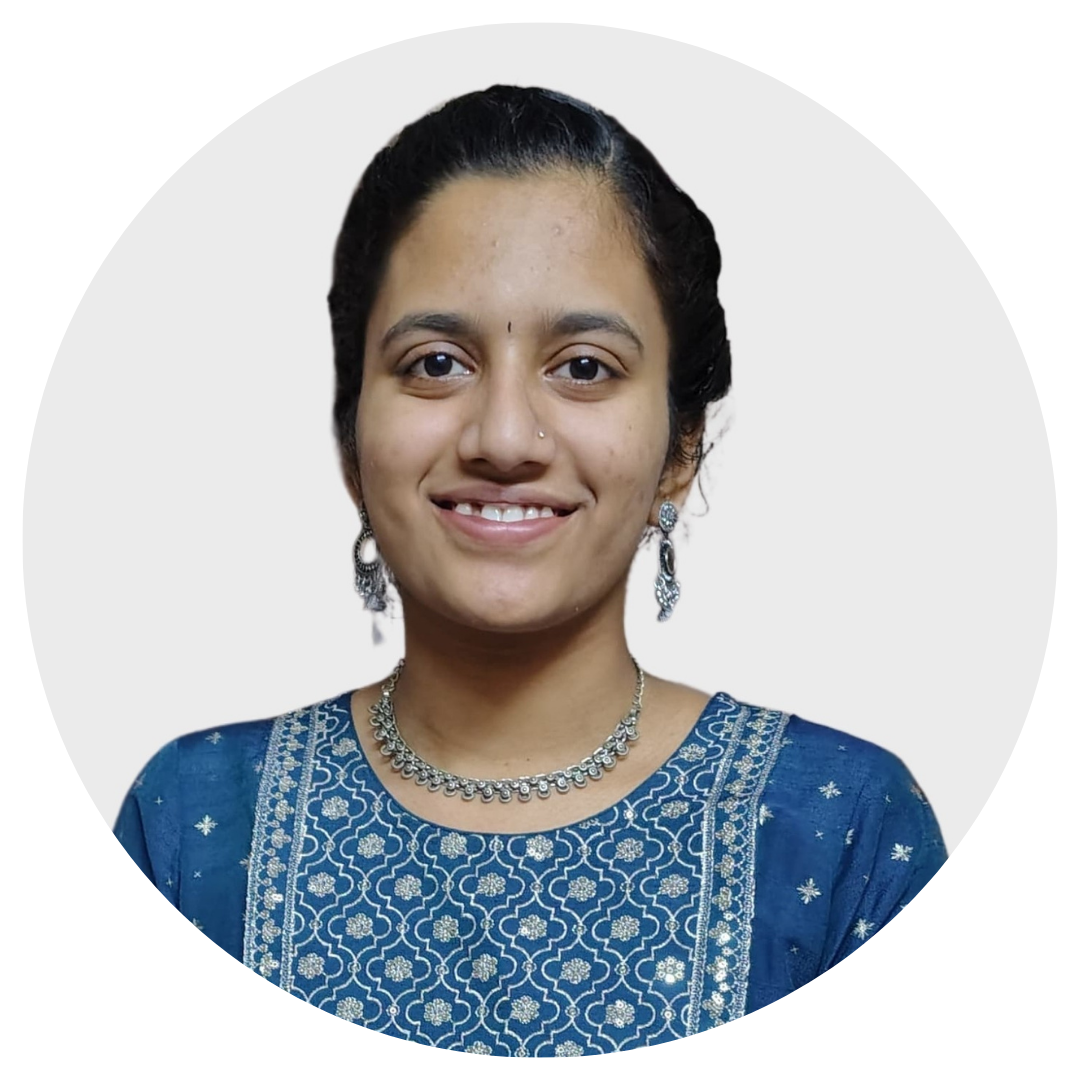
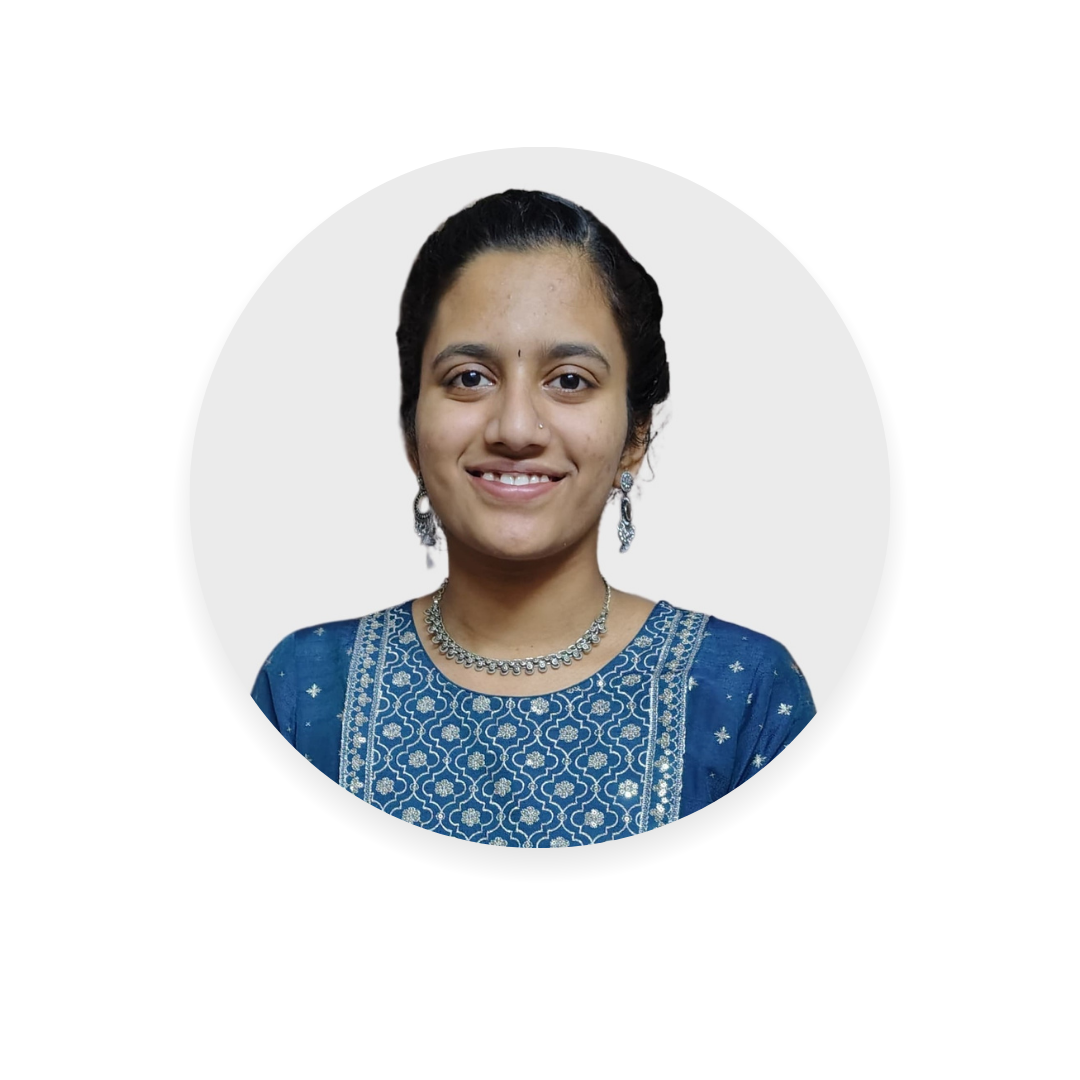
UI enhanced

diff --git a/index.html b/index.html
@@ -403,8 +403,8 @@
         transform: translateY(-2px);
       }
 
-      /* proj Section */
-      .proj {
+      /* experience Section */
+      .experience {
         background-color: var(--light);
       }
 
@@ -1229,7 +1229,7 @@
           <ul class="nav-menu" id="navMenu">
             <li><a href="#home" class="nav-link">Home</a></li>
             <li><a href="#about" class="nav-link">About</a></li>
-            <li><a href="#proj" class="nav-link">Experience</a></li>
+            <li><a href="#experience" class="nav-link">Experience</a></li>
             <li><a href="#projects" class="nav-link">Projects</a></li>
             <li><a href="#education" class="nav-link">Education</a></li>
             <li><a href="#contact" class="nav-link">Contact</a></li>
@@ -1244,6 +1244,9 @@
     <!-- Hero Section -->
     <section id="home" class="hero">
       <div class="container">
+        <div class="hero-img">
+          <img src="config.profileImage" alt="Chaitra Adiga" id="profileImage">
+      </div>
         <div class="hero-content animate">
           <h1 class="hero-title">
             Hi, I'm <span style="color: var(--primary)">Chaitra Adiga</span>
@@ -1294,9 +1297,6 @@
     </section>
 
     <!-- About Section -->
-     <div class="about-img">
-            <img src="config.profileImage" alt="Chaitra Adiga" id="aboutImage">
-        </div>
     <section id="about" class="about section">
       <div class="container">
         <div class="about-text">
@@ -1309,7 +1309,7 @@
           <p>
             Currently exploring Generative AI (GenAI) and working on AI-powered
             applications, including LLM-based assistants and AI-enhanced web
-            solutions. I have hands-on proj in developing and deploying AI
+            solutions. I have hands-on experience in developing and deploying AI
             models, including Django-based AI systems and computer vision
             applications.
           </p>
@@ -1375,7 +1375,7 @@
     </section>
 
     <!-- Timeline Section -->
-    <section id="proj" class="proj section">
+    <section id="experience" class="experience section">
       <div class="container">
         <div class="section-title">
           <h2>Experience</h2>
@@ -1604,7 +1604,7 @@
             <h3>Hackathon</h3>
             <div class="hackathon-item">
               <h4>Unstop Talent Park</h4>
-              <p>Ranked 1829 out of 1.5 lakh students</p>
+              <p>Ranked 1829 out of 1.5 lakh students in Code Quest</p>
               <ul>
                 <li>
                   Competed in Unstop Talent Park, ranking
@@ -1617,7 +1617,7 @@
                 </li>
                 <li>
                   Advanced to the final round, achieving a
-                  <b>top 1.4% rank</b> among all participants.
+                  <b>top 1.2% rank</b> among all participants.
                 </li>
               </ul>
             </div>
@@ -1674,7 +1674,7 @@
             </div>
             <div class="achievement-content">
               <h3 class="achievement-title">
-                Ranked 1829 out of 1,50,000 participants in Unstop Talent Park
+                Ranked 1829 out of 1,50,000 participants in Code Quest, Unstop Talent Park
                 Hackathon 2025
               </h3>
             </div>
@@ -1819,7 +1819,7 @@
         <ul class="footer-nav">
           <li><a href="#home">Home</a></li>
           <li><a href="#about">About</a></li>
-          <li><a href="#proj">Experience</a></li>
+          <li><a href="#experience">Experience</a></li>
           <li><a href="#projects">Projects</a></li>
           <li><a href="#education">Education</a></li>
           <li><a href="#contact">Contact</a></li>
@@ -1865,7 +1865,6 @@
 
       // Load profile images
       document.getElementById("profileImage").src = config.profileImage;
-      // document.getElementById('aboutImage').src = config.profileImage;
 
       // Load projects
       const projectGrid = document.getElementById("projectGrid");

diff --git a/config.js b/config.js
@@ -19,7 +19,7 @@ window.portfolioConfig = {
             link: "https://www.instagram.com/p/CxqRPLjS3kg/?img_index=3"
         },
         {
-            image: "./images/3.jpeg",
+            image: "./images/3.jpg",
             caption: "Street style photography", 
             link: "https://www.instagram.com/p/Cw2iLYOvgHn/?img_index=2"
         },
@@ -50,7 +50,7 @@ window.portfolioConfig = {
             title: "Credit Card Fraud Detection System",
             category: "Machine Learning",
             description: "A sophisticated web application built with Django that leverages machine learning to detect fraudulent credit card transactions in real-time. Combines advanced preprocessing techniques with an XGBoost model to accurately predict legitimate vs. fraudulent transactions.",
-            image: "images/credit-card-fraud.png",
+            image: "images/Credit Card Fraud Detection.png",
             tags: ["Django", "XGBoost", "Python", "Data Preprocessing", "Machine Learning", "Responsive Design"],
             live: "https://github.com/chaitra-adiga/credit_card_fraud",
         },
@@ -58,7 +58,7 @@ window.portfolioConfig = {
             title: "Breast Cancer Detection System",
             category: "Deep Learning",
             description: "Multi-output deep learning model for breast cancer detection published in IRJET. Processes both mammogram images and tabular clinical data for comprehensive diagnostics and accurate classification.",
-            image: "images/breast-cancer-detection.png",
+            image: "images/End-to-End Breast Cancer Detection.png",
             tags: ["Deep Learning", "TensorFlow", "Medical Imaging", "Classification", "Research Paper"],
             paper: "https://www.irjet.net/volume12-issue2",
             paperInfo: "S.No:11",
@@ -68,7 +68,7 @@ window.portfolioConfig = {
             title: "Ingredient Decoder",
             category: "Web Application",
             description: "Web app that helps users understand what's in their food and beauty products by decoding ingredient lists. Features include barcode scanning, image upload for ingredient extraction, manual entry, and toxicity ratings for each ingredient.",
-            image: "images/ingredient-decoder.png",
+            image: "images/ingredient decoder.png",
             tags: ["Django", "Python", "Langchain", "LLMs", "AI/ML", "Barcode Scanning"],
             live: "https://github.com/chaitra-adiga/IngredientDecoder",
             status: "Ongoing"
@@ -77,7 +77,7 @@ window.portfolioConfig = {
             title: "Campus Connect",
             category: "Web Application",
             description: "A comprehensive platform connecting students, faculty and administrators to streamline campus communication, resource sharing, and event management. Simplifies academic processes and enhances the campus experience.",
-            image: "images/campus-connect.png",
+            image: "images/campus connect.png",
             tags: ["Python", "Django","Bootstrap","Google O-Auth","Database Management", "Responsive Design", "UX/UI"],
             live: "https://campusconnect0.pythonanywhere.com/",
             video: "https://www.youtube.com/watch?v=Kn4v2icKECI"
